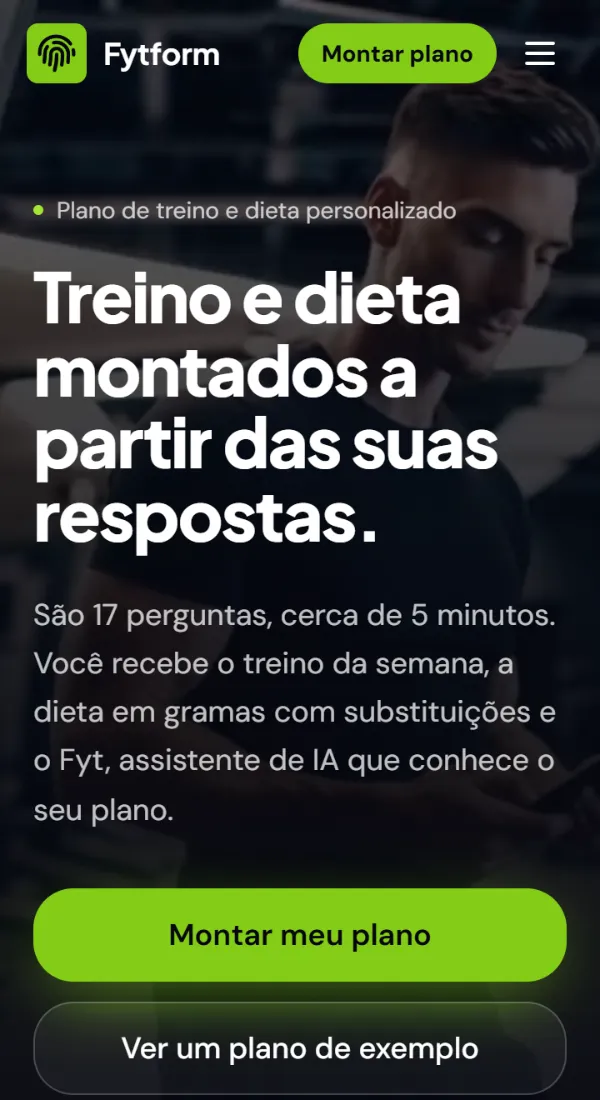
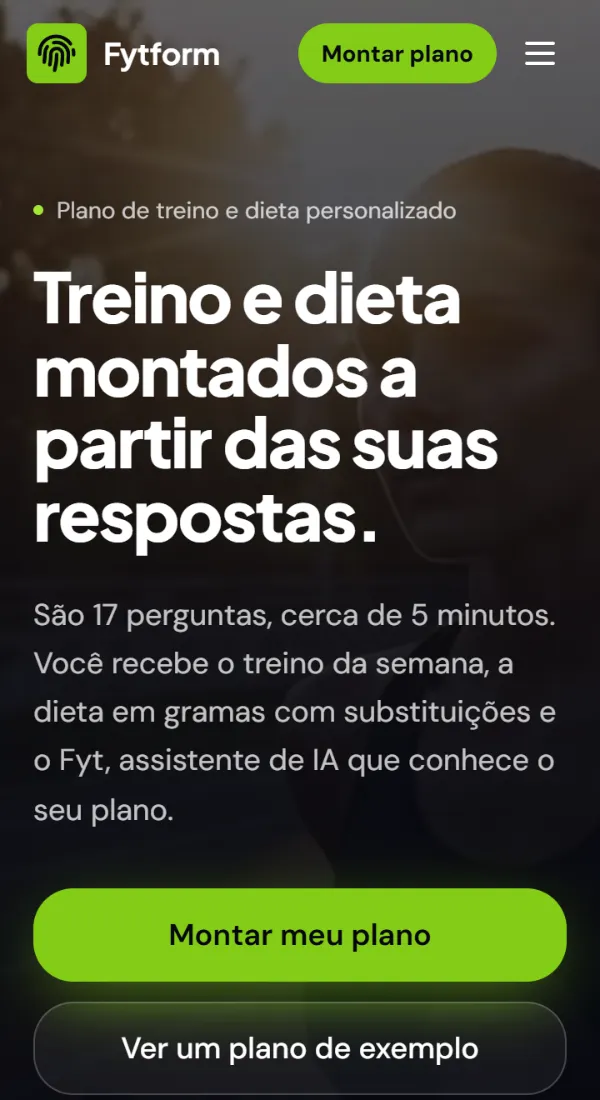
feat: Fytform com o material oficial; preço fora de todo o site
- v3 (PT e EN): frase, descrição e destaques do Fytform Lead; botão "Montar meu plano" → fytform.com/formulario/; palco com o plano de exemplo e a home no celular.
- v1 e v2: logo oficial (icon.svg no lugar do fytform.webp) e prints novos do site público, cortados acima da linha de preço, com trava contra preço, PIX, premium, notas e números de vendas.
- Capa do Grimoire sem as bordas da moldura de CRT.

diff --git a/src/index-v2.html b/src/index-v2.html
@@ -43,7 +43,7 @@
       <li><img src="/assets/prints/iqnorth-m-240.webp" srcset="/assets/prints/iqnorth-m-240.webp 240w, /assets/prints/iqnorth-m-480.webp 480w" sizes="220px" width="240" height="480" alt="" decoding="async" fetchpriority="high"></li>
       <li class="lg c-iq"><img src="/assets/logos/iqnorth.svg" width="64" height="64" alt="" decoding="async"><span>IQNorth</span><small>Teste de QI</small></li>
       <li><img src="/assets/prints/fytform-m-240.webp" srcset="/assets/prints/fytform-m-240.webp 240w, /assets/prints/fytform-m-480.webp 480w" sizes="220px" width="240" height="480" alt="" decoding="async" fetchpriority="high"></li>
-      <li class="lg c-fyt"><img src="/assets/logos/fytform.webp" width="128" height="128" alt="" decoding="async"><span>Fytform</span><small>Treino e dieta</small></li>
+      <li class="lg c-fyt"><img src="/assets/logos/fytform.svg" width="128" height="128" alt="" decoding="async"><span>Fytform</span><small>Treino e dieta</small></li>
       <li><img src="/assets/prints/h2hscout-m-240.webp" srcset="/assets/prints/h2hscout-m-240.webp 240w, /assets/prints/h2hscout-m-480.webp 480w" sizes="220px" width="240" height="480" alt="" decoding="async"></li>
       <li class="lg c-h2h"><img src="/assets/logos/h2hscout.svg" width="64" height="64" alt="" decoding="async"><span>H2HScout</span><small>Brasileirão</small></li>
       <li class="lg c-grim"><img src="/assets/grimoire/icone.webp" width="92" height="92" alt="" decoding="async"><span>Grimoire</span><small>Jogo · em breve</small></li>
@@ -78,7 +78,7 @@
 
       <article class="prod p-fytform rev" aria-labelledby="h-fyt">
         <div>
-          <div class="prod-cab"><img src="/assets/logos/fytform.webp" width="52" height="52" alt=""><h3 id="h-fyt">Fytform<span class="dom">fytform.com</span></h3></div>
+          <div class="prod-cab"><img src="/assets/logos/fytform.svg" width="52" height="52" alt=""><h3 id="h-fyt">Fytform<span class="dom">fytform.com</span></h3></div>
           <p class="estado">No ar</p>
           <p class="prod-frase">Treino e dieta <em>feitos para você</em>, em minutos.</p>
           <p class="prod-desc">Responda um questionário sobre seu corpo, rotina e objetivo e receba seu plano de treino e de dieta no celular.</p>
@@ -90,7 +90,7 @@
           <a class="btn" href="https://fytform.com/" rel="noopener">Montar meu plano <svg viewBox="0 0 16 16" aria-hidden="true"><path d="M5 11 11 5M6 5h5v5" fill="none" stroke="currentColor" stroke-width="1.8" stroke-linecap="round" stroke-linejoin="round"/></svg></a>
         </div>
         <div class="visual">
-          <div class="janela"><div class="janela-barra"><i></i><i></i><i></i><span>fytform.com</span></div><img src="/assets/prints/fytform-d-640.webp" srcset="/assets/prints/fytform-d-640.webp 640w, /assets/prints/fytform-d-1120.webp 1120w" sizes="(max-width:900px) 90vw, 680px" width="1120" height="700" alt="Página inicial do Fytform: “Seu plano para ganhar massa muscular”." loading="lazy" decoding="async"></div>
+          <div class="janela"><div class="janela-barra"><i></i><i></i><i></i><span>fytform.com</span></div><img src="/assets/prints/fytform-d-640.webp" srcset="/assets/prints/fytform-d-640.webp 640w, /assets/prints/fytform-d-1120.webp 1120w" sizes="(max-width:900px) 90vw, 680px" width="1120" height="700" alt="Página inicial do Fytform: “Treino e dieta montados a partir das suas respostas”." loading="lazy" decoding="async"></div>
           <div class="fone"><img src="/assets/prints/fytform-m-240.webp" srcset="/assets/prints/fytform-m-240.webp 240w, /assets/prints/fytform-m-480.webp 480w" sizes="180px" width="240" height="480" alt="" loading="lazy" decoding="async"></div>
         </div>
       </article>

diff --git a/src/index.html b/src/index.html
@@ -40,7 +40,7 @@
   <div class="arco" aria-hidden="true">
     <ul>
       <li><img src="/assets/prints/h2hscout-m-240.webp" srcset="/assets/prints/h2hscout-m-240.webp 240w, /assets/prints/h2hscout-m-480.webp 480w" sizes="220px" width="240" height="480" alt="" decoding="async"></li>
-      <li class="lg c-fyt"><img src="/assets/logos/fytform.webp" width="128" height="128" alt="" decoding="async"><span>Fytform</span><small>Treino e dieta</small></li>
+      <li class="lg c-fyt"><img src="/assets/logos/fytform.svg" width="128" height="128" alt="" decoding="async"><span>Fytform</span><small>Treino e dieta</small></li>
       <li><img src="/assets/prints/iqnorth-m-240.webp" srcset="/assets/prints/iqnorth-m-240.webp 240w, /assets/prints/iqnorth-m-480.webp 480w" sizes="220px" width="240" height="480" alt="" decoding="async" fetchpriority="high"></li>
       <li class="lg c-iq"><img src="/assets/logos/iqnorth.svg" width="64" height="64" alt="" decoding="async"><span>IQNorth</span><small>Teste de QI</small></li>
       <li><img src="/assets/prints/fytform-m-240.webp" srcset="/assets/prints/fytform-m-240.webp 240w, /assets/prints/fytform-m-480.webp 480w" sizes="220px" width="240" height="480" alt="" decoding="async" fetchpriority="high"></li>
@@ -77,7 +77,7 @@
 
       <article class="prod p-fytform rev" aria-labelledby="h-fyt">
         <div>
-          <div class="prod-cab"><img src="/assets/logos/fytform.webp" width="52" height="52" alt=""><h3 id="h-fyt">Fytform<span class="dom">fytform.com</span></h3></div>
+          <div class="prod-cab"><img src="/assets/logos/fytform.svg" width="52" height="52" alt=""><h3 id="h-fyt">Fytform<span class="dom">fytform.com</span></h3></div>
           <p class="estado">No ar</p>
           <p class="prod-frase">Treino e dieta <em>feitos para você</em>, em minutos.</p>
           <p class="prod-desc">Você responde um questionário sobre corpo, rotina e objetivo e recebe um plano de treino e de alimentação personalizado, para acompanhar pelo celular.</p>
@@ -89,7 +89,7 @@
           <a class="btn" href="https://fytform.com/" rel="noopener">Visitar fytform.com <svg viewBox="0 0 16 16" aria-hidden="true"><path d="M5 11 11 5M6 5h5v5" fill="none" stroke="currentColor" stroke-width="1.8" stroke-linecap="round" stroke-linejoin="round"/></svg></a>
         </div>
         <div class="visual">
-          <div class="janela"><div class="janela-barra"><i></i><i></i><i></i><span>fytform.com</span></div><img src="/assets/prints/fytform-d-640.webp" srcset="/assets/prints/fytform-d-640.webp 640w, /assets/prints/fytform-d-1120.webp 1120w" sizes="(max-width:900px) 90vw, 680px" width="1120" height="700" alt="Página inicial do Fytform: “Seu plano para ganhar massa muscular”." loading="lazy" decoding="async"></div>
+          <div class="janela"><div class="janela-barra"><i></i><i></i><i></i><span>fytform.com</span></div><img src="/assets/prints/fytform-d-640.webp" srcset="/assets/prints/fytform-d-640.webp 640w, /assets/prints/fytform-d-1120.webp 1120w" sizes="(max-width:900px) 90vw, 680px" width="1120" height="700" alt="Página inicial do Fytform: “Treino e dieta montados a partir das suas respostas”." loading="lazy" decoding="async"></div>
           <div class="fone"><img src="/assets/prints/fytform-m-240.webp" srcset="/assets/prints/fytform-m-240.webp 240w, /assets/prints/fytform-m-480.webp 480w" sizes="180px" width="240" height="480" alt="" loading="lazy" decoding="async"></div>
         </div>
       </article>

diff --git a/src/index-v3.html b/src/index-v3.html
@@ -83,16 +83,16 @@
       <div class="prod-txt">
         <div class="prod-cab"><img src="/assets/v3/logos/fytform.svg" width="56" height="56" alt=""><div><h3 id="h-fyt">Fytform</h3><a class="dom" href="https://fytform.com/" rel="noopener">fytform.com</a></div></div>
         <p class="estado">No ar</p>
-        <p class="prod-frase">Treino e dieta feitos para você, em minutos.</p>
-        <p class="prod-desc">Responda um questionário sobre seu corpo, rotina e objetivo e receba seu plano de treino e de dieta no celular.</p>
+        <p class="prod-frase">Treino e dieta montados a partir de você.</p>
+        <p class="prod-desc">Responda 17 perguntas em cerca de 5 minutos e receba o treino da semana e a dieta em gramas, com substituições. Tudo no celular, com o Fyt, assistente de IA que conhece o seu plano.</p>
         <ul class="fatos">
-          <li>Exercícios, séries, refeições, calorias e macros</li>
-          <li>Substituição de alimentos por equivalentes</li>
-          <li>17 perguntas, cerca de 5 minutos</li>
+          <li>Treino com séries, repetições e descanso, e ficha com cronômetro</li>
+          <li>Dieta em gramas, com trocas equivalentes de alimentos</li>
+          <li>Fyt: tire dúvidas sobre o seu plano com IA</li>
         </ul>
-        <a class="btn btn-prod" href="https://fytform.com/" rel="noopener">Montar meu plano</a>
+        <a class="btn btn-prod" href="https://fytform.com/formulario/" rel="noopener">Montar meu plano</a>
       </div>
-      <div class="palco"><div class="fone"><img src="/assets/v3/prints/fytform-cel-300.webp" srcset="/assets/v3/prints/fytform-cel-300.webp 300w, /assets/v3/prints/fytform-cel-600.webp 600w" sizes="260px" width="300" height="550" alt="Tela inicial do Fytform no celular: “Treino e dieta montados a partir das suas respostas”." loading="lazy" decoding="async"></div></div>
+      <div class="palco duo"><div class="aparelho"><img src="/assets/v3/prints/fytform-plano-300.webp" srcset="/assets/v3/prints/fytform-plano-300.webp 300w, /assets/v3/prints/fytform-plano-600.webp 600w" sizes="220px" width="300" height="501" alt="Plano de exemplo do Fytform aberto no celular: tela inicial com IMC, dias de treino e refeições." loading="lazy" decoding="async"></div><div class="fone"><img src="/assets/v3/prints/fytform-cel-300.webp" srcset="/assets/v3/prints/fytform-cel-300.webp 300w, /assets/v3/prints/fytform-cel-600.webp 600w" sizes="260px" width="300" height="550" alt="Tela inicial do Fytform no celular: “Treino e dieta montados a partir das suas respostas”." loading="lazy" decoding="async"></div></div>
     </article>
 
     <article class="prod p-h2h" id="h2hscout" aria-labelledby="h-h2h">

diff --git a/src/index-v3-en.html b/src/index-v3-en.html
@@ -80,17 +80,17 @@
       <div class="prod-txt">
         <div class="prod-cab"><img src="/assets/v3/logos/fytform.svg" width="56" height="56" alt=""><div><h3 id="h-fyt">Fytform</h3><a class="dom" href="https://fytform.com/" rel="noopener" hreflang="pt-BR">fytform.com</a></div></div>
         <p class="estado">Live</p>
-        <p class="prod-frase">Workouts and diet made for you, in minutes.</p>
-        <p class="prod-desc">Answer a questionnaire about your body, routine and goal, and get your workout and diet plan on your phone.</p>
+        <p class="prod-frase">Workouts and diet built around you.</p>
+        <p class="prod-desc">Answer 17 questions in about 5 minutes and get the week’s workouts and a diet in grams, with swaps. All on your phone, with Fyt, an AI assistant that knows your plan.</p>
         <ul class="fatos">
-          <li>Exercises, sets, meals, calories and macros</li>
-          <li>Food swaps for equivalents</li>
-          <li>17 questions, about 5 minutes</li>
+          <li>Workouts with sets, reps and rest, and a workout sheet with a timer</li>
+          <li>Diet in grams, with equivalent food swaps</li>
+          <li>Fyt: ask questions about your plan with AI</li>
           <li>Portuguese only</li>
         </ul>
-        <a class="btn btn-prod" href="https://fytform.com/" rel="noopener" hreflang="pt-BR">Build my plan</a>
+        <a class="btn btn-prod" href="https://fytform.com/formulario/" rel="noopener" hreflang="pt-BR">Build my plan</a>
       </div>
-      <div class="palco"><div class="fone"><img src="/assets/v3/prints/fytform-cel-300.webp" srcset="/assets/v3/prints/fytform-cel-300.webp 300w, /assets/v3/prints/fytform-cel-600.webp 600w" sizes="260px" width="300" height="550" alt="Fytform home screen on a phone, in Portuguese." loading="lazy" decoding="async"></div></div>
+      <div class="palco duo"><div class="aparelho"><img src="/assets/v3/prints/fytform-plano-300.webp" srcset="/assets/v3/prints/fytform-plano-300.webp 300w, /assets/v3/prints/fytform-plano-600.webp 600w" sizes="220px" width="300" height="501" alt="Fytform sample plan open on a phone: home screen with BMI, training days and meals, in Portuguese." loading="lazy" decoding="async"></div><div class="fone"><img src="/assets/v3/prints/fytform-cel-300.webp" srcset="/assets/v3/prints/fytform-cel-300.webp 300w, /assets/v3/prints/fytform-cel-600.webp 600w" sizes="260px" width="300" height="550" alt="Fytform home screen on a phone, in Portuguese." loading="lazy" decoding="async"></div></div>
     </article>
 
     <article class="prod p-h2h" id="h2hscout" aria-labelledby="h-h2h">
